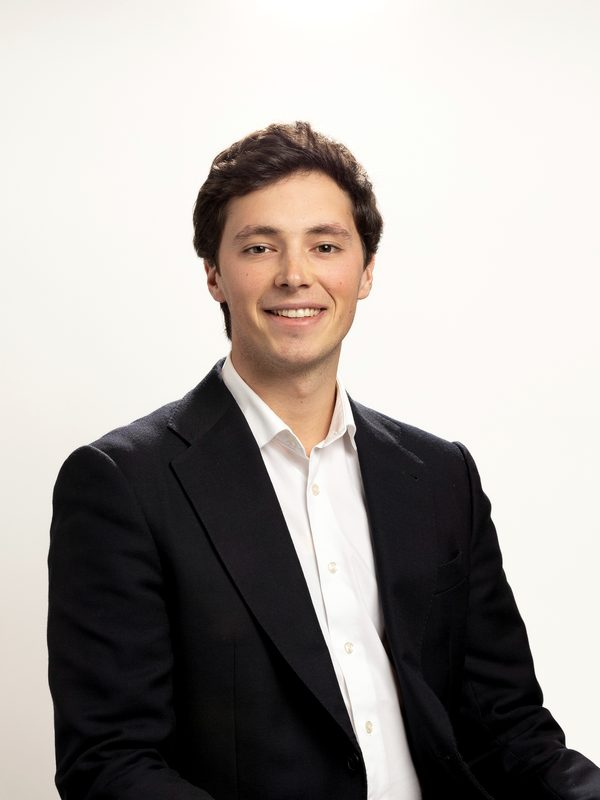
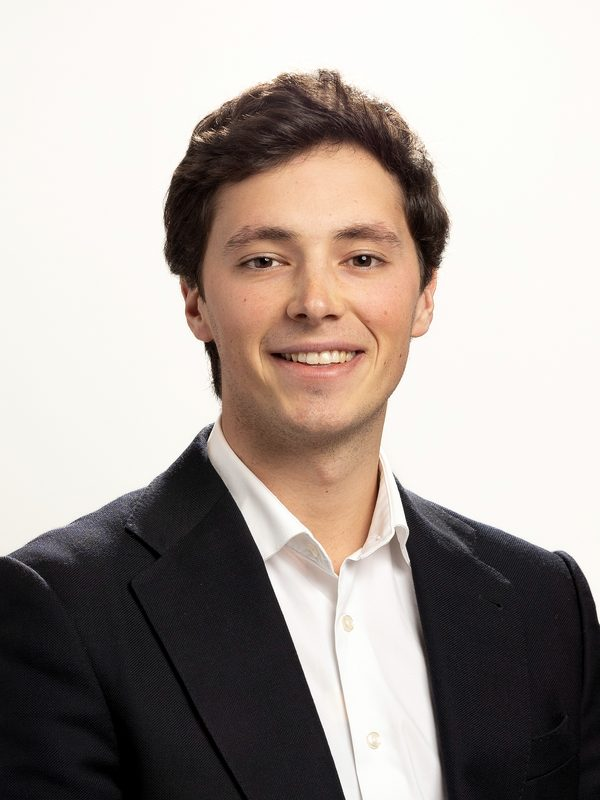
Retratos da equipa técnica uniformizados
Quatro retratos (Beatriz Maia, Inês Pelica, Sílvia Almeida, Francisco
Quintela) normalizados para 3:4 com a cabeça à mesma escala, a mesma folga
acima e o mesmo tratamento de cor, para lerem como uma sessão única apesar
de virem de origens diferentes.

tools/preparar-fotos.py: as tentativas de detetar automaticamente o fundo e
a cabeça falharam de formas diferentes em cada foto — o fundo de estúdio tem
gradiente e é lido como sujeito, e o cabelo comprido é lido como ombros,
encolhendo o recorte até cortar o queixo. Com meia dúzia de retratos, uma
tabela de medições à mão é mais fiável e previsível; a deteção automática
fica como recurso para fotos novas ainda não medidas.

Catarina Branco e Madalena Bonito mantêm o marcador até haver fotos.

diff --git a/clube.html b/clube.html
@@ -23,7 +23,7 @@
 <link rel="preconnect" href="https://fonts.googleapis.com">
 <link rel="preconnect" href="https://fonts.gstatic.com" crossorigin>
 <link rel="stylesheet" href="https://fonts.googleapis.com/css2?family=Inter:wght@300;400;500;600&family=Manrope:wght@300;500;700;800&display=swap">
-<link rel="stylesheet" href="assets/css/style.css?v=3">
+<link rel="stylesheet" href="assets/css/style.css?v=4">
 </head>
 
 <body class="grain">
@@ -188,25 +188,25 @@
 
     <div class="grid grid--4" data-stagger="120">
       <article class="coach" data-reveal>
-        <div class="coach__photo"><span class="coach__ph-fallback" aria-hidden="true">&#9671;</span></div>
+        <div class="coach__photo"><img src="assets/img/equipa/francisco-quintela.jpg" alt="Francisco Quintela" width="600" height="800" loading="lazy" decoding="async"></div>
         <p class="coach__role">Coordenador técnico</p>
         <h3 class="coach__name">Francisco Quintela</h3>
         <p class="coach__bio">Grau I de Patinagem Artística (atualmente a tirar o Grau II). Treinador desportivo desde 2019 e atleta do clube desde 2007. Presidente da Direção do CPACC.</p>
       </article>
       <article class="coach" data-reveal>
-        <div class="coach__photo"><span class="coach__ph-fallback" aria-hidden="true">&#9671;</span></div>
+        <div class="coach__photo"><img src="assets/img/equipa/silvia-almeida.jpg" alt="Sílvia Almeida" width="600" height="800" loading="lazy" decoding="async"></div>
         <p class="coach__role">Treinadora</p>
         <h3 class="coach__name">Sílvia Almeida</h3>
         <p class="coach__bio">Grau II de Treinadora e Curso Grau I World Skate. Coreógrafa internacional, treinadora desde 2014 no Grupo Desportivo e Recreativo os Lobinhos.</p>
       </article>
       <article class="coach" data-reveal>
-        <div class="coach__photo"><span class="coach__ph-fallback" aria-hidden="true">&#9671;</span></div>
+        <div class="coach__photo"><img src="assets/img/equipa/ines-pelica.jpg" alt="Inês Pelica" width="600" height="800" loading="lazy" decoding="async"></div>
         <p class="coach__role">Treinadora</p>
         <h3 class="coach__name">Inês Pelica</h3>
         <p class="coach__bio">Grau I de Patinagem Artística.</p>
       </article>
       <article class="coach" data-reveal>
-        <div class="coach__photo"><span class="coach__ph-fallback" aria-hidden="true">&#9671;</span></div>
+        <div class="coach__photo"><img src="assets/img/equipa/beatriz-maia.jpg" alt="Beatriz Maia" width="600" height="800" loading="lazy" decoding="async"></div>
         <p class="coach__role">Treinadora</p>
         <h3 class="coach__name">Beatriz Maia</h3>
         <p class="coach__bio">Grau I de Treinadora (atualmente a tirar o Grau II). No CPACC desde 2022.</p>
@@ -348,6 +348,6 @@
   </div>
 </footer>
 
-<script src="assets/js/main.js?v=3" defer></script>
+<script src="assets/js/main.js?v=4" defer></script>
 </body>
 </html>

diff --git a/index.html b/index.html
@@ -24,7 +24,7 @@
 <link rel="preconnect" href="https://fonts.googleapis.com">
 <link rel="preconnect" href="https://fonts.gstatic.com" crossorigin>
 <link rel="stylesheet" href="https://fonts.googleapis.com/css2?family=Inter:wght@300;400;500;600&family=Manrope:wght@300;500;700;800&display=swap">
-<link rel="stylesheet" href="assets/css/style.css?v=3">
+<link rel="stylesheet" href="assets/css/style.css?v=4">
 
 <!-- Dados estruturados: é isto que faz o Google e os assistentes de IA
      perceberem que somos um clube desportivo em Almada. -->
@@ -346,28 +346,21 @@
 
     <div class="grid grid--3" data-stagger="120">
       <article class="coach" data-reveal>
-        <div class="coach__photo">
-          <!-- <img src="assets/img/treinador-francisco.jpg" alt="Retrato de Francisco Quintela"> -->
-          <span class="coach__ph-fallback" aria-hidden="true">◇</span>
-        </div>
+        <div class="coach__photo"><img src="assets/img/equipa/francisco-quintela.jpg" alt="Francisco Quintela" width="600" height="800" loading="lazy" decoding="async"></div>
         <p class="coach__role">Coordenador técnico</p>
         <h3 class="coach__name">Francisco Quintela</h3>
         <p class="coach__bio">Grau I de Patinagem Artística (atualmente a tirar o Grau II). Treinador desportivo desde 2019 e atleta do clube desde 2007.</p>
       </article>
 
       <article class="coach" data-reveal>
-        <div class="coach__photo">
-          <span class="coach__ph-fallback" aria-hidden="true">◇</span>
-        </div>
+        <div class="coach__photo"><img src="assets/img/equipa/silvia-almeida.jpg" alt="Sílvia Almeida" width="600" height="800" loading="lazy" decoding="async"></div>
         <p class="coach__role">Treinadora</p>
         <h3 class="coach__name">Sílvia Almeida</h3>
         <p class="coach__bio">Grau II de Treinadora e Curso Grau I World Skate. Coreógrafa internacional, treinadora desde 2014 no Grupo Desportivo e Recreativo os Lobinhos.</p>
       </article>
 
       <article class="coach" data-reveal>
-        <div class="coach__photo">
-          <span class="coach__ph-fallback" aria-hidden="true">◇</span>
-        </div>
+        <div class="coach__photo"><img src="assets/img/equipa/beatriz-maia.jpg" alt="Beatriz Maia" width="600" height="800" loading="lazy" decoding="async"></div>
         <p class="coach__role">Treinadora</p>
         <h3 class="coach__name">Beatriz Maia</h3>
         <p class="coach__bio">Grau I de Treinadora (atualmente a tirar o Grau II). No CPACC desde 2022.</p>
@@ -624,6 +617,6 @@
   </div>
 </footer>
 
-<script src="assets/js/main.js?v=3" defer></script>
+<script src="assets/js/main.js?v=4" defer></script>
 </body>
 </html>

diff --git a/faq.html b/faq.html
@@ -23,7 +23,7 @@
 <link rel="preconnect" href="https://fonts.googleapis.com">
 <link rel="preconnect" href="https://fonts.gstatic.com" crossorigin>
 <link rel="stylesheet" href="https://fonts.googleapis.com/css2?family=Inter:wght@300;400;500;600&family=Manrope:wght@300;500;700;800&display=swap">
-<link rel="stylesheet" href="assets/css/style.css?v=3">
+<link rel="stylesheet" href="assets/css/style.css?v=4">
 <script type="application/ld+json">
 {
   "@context": "https://schema.org",
@@ -393,6 +393,6 @@
   </div>
 </footer>
 
-<script src="assets/js/main.js?v=3" defer></script>
+<script src="assets/js/main.js?v=4" defer></script>
 </body>
 </html>

diff --git a/contactos.html b/contactos.html
@@ -23,7 +23,7 @@
 <link rel="preconnect" href="https://fonts.googleapis.com">
 <link rel="preconnect" href="https://fonts.gstatic.com" crossorigin>
 <link rel="stylesheet" href="https://fonts.googleapis.com/css2?family=Inter:wght@300;400;500;600&family=Manrope:wght@300;500;700;800&display=swap">
-<link rel="stylesheet" href="assets/css/style.css?v=3">
+<link rel="stylesheet" href="assets/css/style.css?v=4">
 </head>
 
 <body class="grain">
@@ -242,6 +242,6 @@
   </div>
 </footer>
 
-<script src="assets/js/main.js?v=3" defer></script>
+<script src="assets/js/main.js?v=4" defer></script>
 </body>
 </html>

diff --git a/horarios.html b/horarios.html
@@ -23,7 +23,7 @@
 <link rel="preconnect" href="https://fonts.googleapis.com">
 <link rel="preconnect" href="https://fonts.gstatic.com" crossorigin>
 <link rel="stylesheet" href="https://fonts.googleapis.com/css2?family=Inter:wght@300;400;500;600&family=Manrope:wght@300;500;700;800&display=swap">
-<link rel="stylesheet" href="assets/css/style.css?v=3">
+<link rel="stylesheet" href="assets/css/style.css?v=4">
 </head>
 
 <body class="grain">
@@ -276,6 +276,6 @@
   </div>
 </footer>
 
-<script src="assets/js/main.js?v=3" defer></script>
+<script src="assets/js/main.js?v=4" defer></script>
 </body>
 </html>

diff --git a/pre-inscricao.html b/pre-inscricao.html
@@ -23,7 +23,7 @@
 <link rel="preconnect" href="https://fonts.googleapis.com">
 <link rel="preconnect" href="https://fonts.gstatic.com" crossorigin>
 <link rel="stylesheet" href="https://fonts.googleapis.com/css2?family=Inter:wght@300;400;500;600&family=Manrope:wght@300;500;700;800&display=swap">
-<link rel="stylesheet" href="assets/css/style.css?v=3">
+<link rel="stylesheet" href="assets/css/style.css?v=4">
 </head>
 
 <body class="grain">
@@ -293,6 +293,6 @@
   </div>
 </footer>
 
-<script src="assets/js/main.js?v=3" defer></script>
+<script src="assets/js/main.js?v=4" defer></script>
 </body>
 </html>

diff --git a/privacidade.html b/privacidade.html
@@ -23,7 +23,7 @@
 <link rel="preconnect" href="https://fonts.googleapis.com">
 <link rel="preconnect" href="https://fonts.gstatic.com" crossorigin>
 <link rel="stylesheet" href="https://fonts.googleapis.com/css2?family=Inter:wght@300;400;500;600&family=Manrope:wght@300;500;700;800&display=swap">
-<link rel="stylesheet" href="assets/css/style.css?v=3">
+<link rel="stylesheet" href="assets/css/style.css?v=4">
 </head>
 
 <body class="grain">
@@ -197,6 +197,6 @@
   </div>
 </footer>
 
-<script src="assets/js/main.js?v=3" defer></script>
+<script src="assets/js/main.js?v=4" defer></script>
 </body>
 </html>

diff --git a/tools/preparar-fotos.py b/tools/preparar-fotos.py
@@ -15,6 +15,7 @@ Os originais ficam em assets/img/equipa/_originais/ e não vão para o site.
 
 import sys
 import os
+import unicodedata
 from PIL import Image, ImageOps, ImageEnhance, ImageChops
 
 # Fundo neutro claro, próximo do cinzento de estúdio, para que fotos recortadas
@@ -23,7 +24,24 @@ FUNDO = (238, 236, 232)
 
 LARGURA, ALTURA = 600, 800          # 3:4
 FOLGA_TOPO = 0.09                   # espaço acima da cabeça, em % da altura
-OCUPACAO = 0.78                     # quanto da altura o sujeito deve ocupar
+# Recortes afinados à mão, um por retrato.
+#
+# A deteção automática de fundo/cabeça não é fiável com origens tão diferentes
+# (fundo de estúdio com gradiente, recortes em PNG, cabelo comprido que se
+# confunde com ombros). Com meia dúzia de fotos, medir à mão dá melhor
+# resultado e é previsível.
+#
+# Cada entrada é (topo_da_cabeca_y, queixo_y, centro_do_rosto_x) no original.
+# O recorte é calculado a partir daí para a cabeça ocupar sempre ALTURA_CABECA
+# da altura final — é isso que faz os retratos parecerem da mesma sessão.
+ROSTOS = {
+    "beatriz-maia":      (95,   690,  590),
+    "ines-pelica":       (103,  429,  425),
+    "silvia-almeida":    (51,   430,  532),
+    "francisco-quintela": (615, 1680, 3150),
+}
+
+ALTURA_CABECA = 0.40                # a cabeça ocupa 40% da altura do retrato
 
 DESTINO = "assets/img/equipa"
 
@@ -44,6 +62,49 @@ def limites_do_sujeito(im):
     return mascara.getbbox() or (0, 0, rgb.width, rgb.height)
 
 
+def mascara_do_sujeito(im):
+    """Máscara a preto e branco de onde está a pessoa."""
+    if im.mode in ("RGBA", "LA") and im.getchannel("A").getextrema()[0] < 250:
+        return im.getchannel("A").point(lambda v: 255 if v > 128 else 0)
+    rgb = im.convert("RGB")
+    canto = rgb.getpixel((2, 2))
+    dif = ImageChops.difference(rgb, Image.new("RGB", rgb.size, canto)).convert("L")
+    return dif.point(lambda v: 255 if v > 28 else 0)
+
+
+def altura_da_cabeca(im, caixa):
+    """
+    Estima a altura da cabeça, para que todos os retratos fiquem à mesma escala.
+
+    A cabeça é a parte estreita no topo; os ombros alargam bruscamente. Procuramos
+    essa mudança de largura — é o pescoço, e portanto a base da cabeça.
+    """
+    esq, topo, dir_, base = caixa
+    mascara = mascara_do_sujeito(im).crop(caixa)
+    larg, alt = mascara.size
+
+    larguras = []
+    for y in range(0, alt, max(1, alt // 200)):
+        linha = mascara.crop((0, y, larg, y + 1)).getbbox()
+        larguras.append(linha[2] - linha[0] if linha else 0)
+
+    if not larguras:
+        return (base - topo) * 0.25
+
+    # A largura da cabeça é a menor largura estável no terço superior.
+    topo_terco = [w for w in larguras[:max(3, len(larguras) // 3)] if w > 0]
+    larg_cabeca = sorted(topo_terco)[len(topo_terco) // 4] if topo_terco else larg
+
+    # Descemos até a largura passar de 1.5x a da cabeça: são os ombros.
+    passo = max(1, alt // 200)
+    for i, w in enumerate(larguras):
+        if w > larg_cabeca * 1.5:
+            return max(i * passo, larg_cabeca * 0.9)
+
+    # Sem ombros visíveis (plano muito fechado): proporção humana típica.
+    return larg_cabeca * 1.35
+
+
 def sobre_fundo(im):
     """Assenta a imagem num fundo sólido, se tiver transparência."""
     if im.mode in ("RGBA", "LA", "P"):
@@ -62,15 +123,20 @@ def preparar(origem, nome):
     larg_im, alt_im = im.size
     centro_x = (esq + dir_) // 2
 
-    # Queremos o topo da cabeça a FOLGA_TOPO da altura do recorte. Daí decorre
-    # a maior altura possível que ainda cabe na foto — assim nunca inventamos
-    # fundo, que é o que deixa faixas visíveis nas margens.
-    max_por_cima = topo / FOLGA_TOPO if topo > 0 else alt_im
-    max_por_baixo = (alt_im - topo) / (1 - FOLGA_TOPO)
-    max_por_largura = larg_im * ALTURA / LARGURA
-    altura_corte = int(min(max_por_cima, max_por_baixo, max_por_largura, alt_im))
+    if nome in ROSTOS:
+        cabeca_topo, queixo, centro_x = ROSTOS[nome]
+        topo = cabeca_topo
+        altura_corte = int((queixo - cabeca_topo) / ALTURA_CABECA)
+    else:
+        # Sem medição à mão, aproximamos pelos limites detetados.
+        altura_corte = int((base - topo) * 1.15)
+
+    altura_corte = int(min(altura_corte, alt_im, larg_im * ALTURA / LARGURA))
     largura_corte = int(altura_corte * LARGURA / ALTURA)
 
+    # Posicionamos para deixar FOLGA_TOPO acima da cabeça. Se a cabeça já está
+    # colada ao topo da foto, encostamos e ficamos com menos folga — melhor
+    # isso do que encolher o recorte e cortar o queixo.
     corte_topo = max(0, min(int(topo - altura_corte * FOLGA_TOPO), alt_im - altura_corte))
     corte_esq = max(0, min(centro_x - largura_corte // 2, larg_im - largura_corte))
 
@@ -96,8 +162,12 @@ def nome_ficheiro(caminho):
     """'Foto - Beatriz Maia.png' -> 'beatriz-maia'"""
     base = os.path.splitext(os.path.basename(caminho))[0]
     base = base.lower().replace("foto", "").replace("-", " ").replace("_", " ")
-    acentos = str.maketrans("áàâãéêíóôõúç", "aaaaeeiooouc")
-    base = base.translate(acentos)
+    # O macOS guarda os acentos em forma decomposta ("e" + acento separado),
+    # por isso decompomos tudo e deitamos fora as marcas — assim funciona
+    # independentemente de como o nome do ficheiro chegou.
+    base = unicodedata.normalize("NFD", base)
+    base = "".join(c for c in base if not unicodedata.combining(c))
+    base = "".join(c if c.isalnum() or c.isspace() else " " for c in base)
     return "-".join(base.split())
 
 
